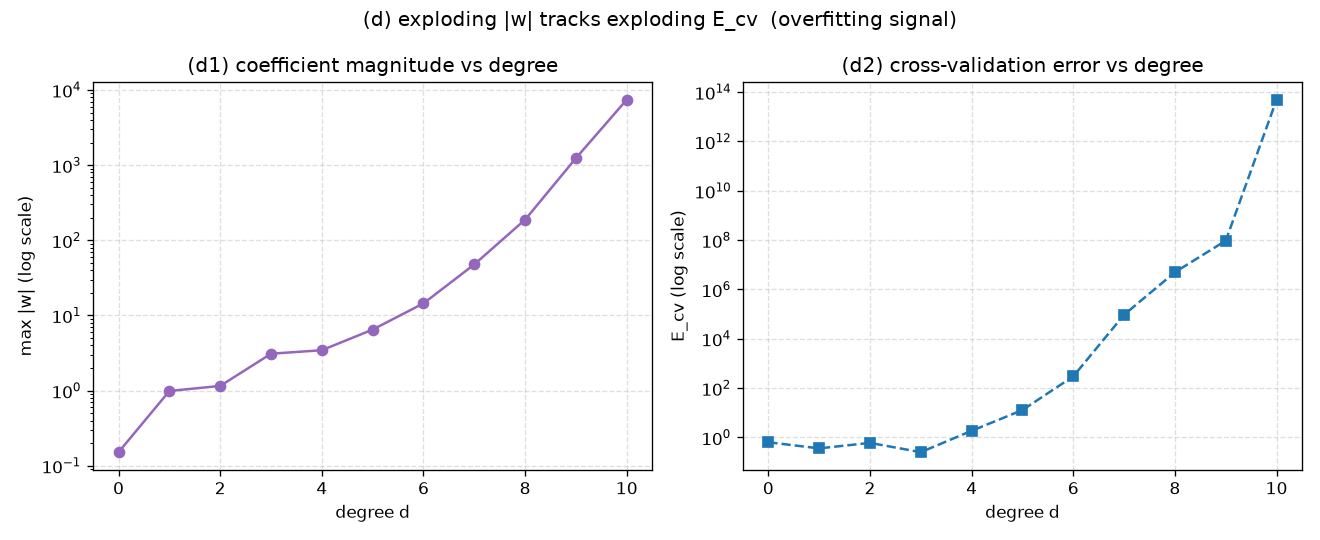
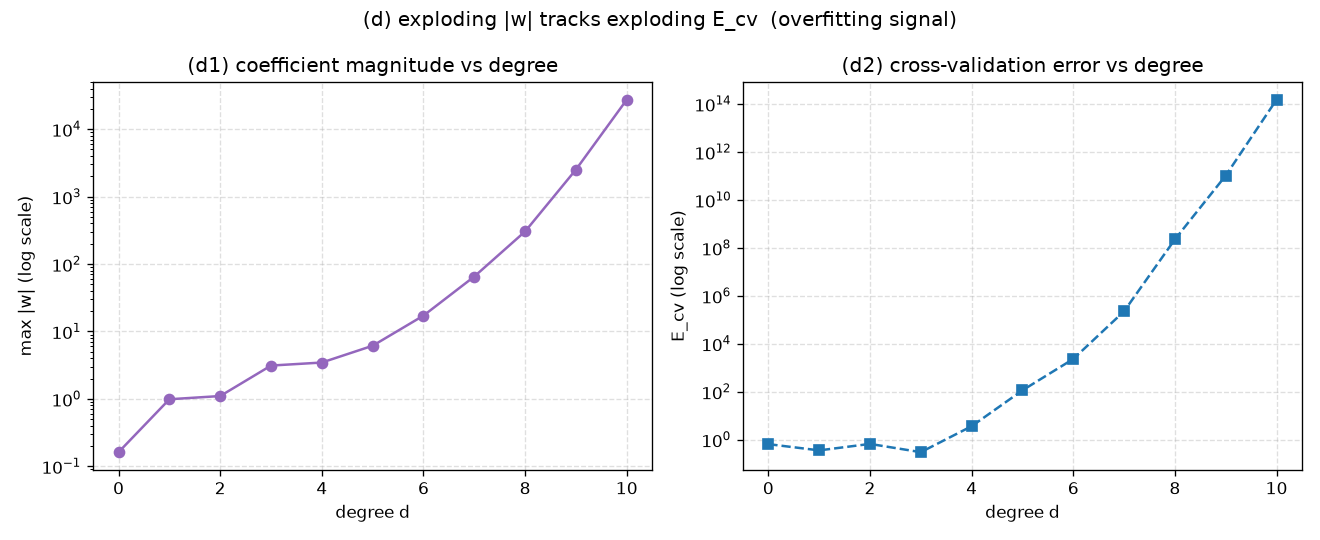
งานที่ 4 Bayes

diff --git a/Fourth_Work/bayes_decision.py b/Fourth_Work/bayes_decision.py
@@ -1,0 +1,120 @@
+# -*- coding: utf-8 -*-
+"""
+Assignment 4: Bayes Decision Theory (1-D, 2 คลาส: '+' และ '-')
+
+หลักการ (ดู g(x) ด้านล่าง):
+- sigma_plus == sigma_minus  -> เส้นแบ่ง (decision boundary) เป็นเส้นตรง = LDA  (ข้อ 1, 4)
+- sigma_plus != sigma_minus  -> เส้นแบ่งเป็นสมการกำลังสอง = QDA        (ข้อ 2, 3)
+เปลี่ยนโหมด LDA/QDA ได้แค่แก้ SIGMA_PLUS / SIGMA_MINUS ด้านล่างให้เท่ากัน/ไม่เท่ากัน
+"""
+import sys
+import numpy as np
+import matplotlib.pyplot as plt
+
+sys.stdout.reconfigure(encoding="utf-8")
+
+# ===================== ตัวแปรที่ปรับได้ (แก้ตรงนี้ที่เดียว) =====================
+MU_PLUS      = 3.0    # mean ของคลาส +
+MU_MINUS     = -1.0   # mean ของคลาส -
+SIGMA_PLUS   = 1.0    # sd ของคลาส +   (= SIGMA_MINUS -> เคส LDA, != -> เคส QDA)
+SIGMA_MINUS  = 1.5    # sd ของคลาส -
+PI_PLUS      = 0.5    # prior คลาส +  (PI_MINUS = 1 - PI_PLUS)
+N_SAMPLES    = 500     # จำนวนตัวอย่างที่สุ่ม (โหมด b: ประมาณค่าพารามิเตอร์)
+SEED         = 42
+X_MIN, X_MAX = -10.0, 10.0
+# ================================================================================
+
+
+def gaussian_pdf(x, mu, sigma):
+    """likelihood: N(x; mu, sigma^2)"""
+    return np.exp(-((x - mu) ** 2) / (2 * sigma ** 2)) / (sigma * np.sqrt(2 * np.pi))
+
+
+def posterior(x, mu_p, sigma_p, pi_p, mu_m, sigma_m, pi_m):
+    """Bayes rule: posterior = prior * likelihood / sum"""
+    like_p = gaussian_pdf(x, mu_p, sigma_p) * pi_p
+    like_m = gaussian_pdf(x, mu_m, sigma_m) * pi_m
+    total = like_p + like_m
+    return like_p / total, like_m / total
+
+
+def decision_boundary(mu_p, sigma_p, pi_p, mu_m, sigma_m, pi_m):
+    """
+    g(x) = ln(pi_p/pi_m) + ln(sigma_m/sigma_p)
+           - (x-mu_p)^2/(2*sigma_p^2) + (x-mu_m)^2/(2*sigma_m^2)
+    เขียนใหม่เป็น A*x^2 + B*x + C = 0 แล้วแก้สมการ (A=0 -> LDA, A!=0 -> QDA)
+    """
+    A = 1 / (2 * sigma_m ** 2) - 1 / (2 * sigma_p ** 2)
+    B = mu_p / sigma_p ** 2 - mu_m / sigma_m ** 2
+    C = (np.log(pi_p / pi_m) + np.log(sigma_m / sigma_p)
+         - mu_p ** 2 / (2 * sigma_p ** 2) + mu_m ** 2 / (2 * sigma_m ** 2))
+
+    if abs(A) < 1e-12:                       # เคส LDA: เส้นตรง B*x + C = 0
+        return [-C / B]
+    roots = np.roots([A, B, C])              # เคส QDA: อาจได้ 2 ราก
+    return sorted(r.real for r in roots if abs(r.imag) < 1e-9)
+
+
+def estimate_gaussian(samples):
+    """ประมาณ mean, sd จากตัวอย่างที่สุ่มมา"""
+    return samples.mean(), samples.std(ddof=1)
+
+
+def plot_case(mu_p, sigma_p, pi_p, mu_m, sigma_m, pi_m, boundaries, title, fname):
+    x = np.linspace(X_MIN, X_MAX, 1000)
+    like_p = gaussian_pdf(x, mu_p, sigma_p)
+    like_m = gaussian_pdf(x, mu_m, sigma_m)
+    post_p, post_m = posterior(x, mu_p, sigma_p, pi_p, mu_m, sigma_m, 1 - pi_p)
+
+    fig, (ax1, ax2) = plt.subplots(1, 2, figsize=(11, 4))
+    fig.suptitle(title)
+
+    ax1.plot(x, like_p, label="likelihood +")
+    ax1.plot(x, like_m, label="likelihood -")
+    ax1.set_title("Likelihood")
+    ax1.legend()
+
+    ax2.plot(x, post_p, label="posterior +")
+    ax2.plot(x, post_m, label="posterior -")
+    ax2.set_title("Posterior")
+    ax2.legend()
+
+    for ax in (ax1, ax2):
+        for b in boundaries:
+            ax.axvline(b, color="k", linestyle="--", linewidth=1)
+
+    fig.tight_layout()
+    fig.savefig(fname, dpi=120)
+    plt.close(fig)
+
+
+def run(mode):
+    pi_m = 1 - PI_PLUS
+
+    if mode == "fixed":
+        mu_p, sigma_p, mu_m, sigma_m = MU_PLUS, SIGMA_PLUS, MU_MINUS, SIGMA_MINUS
+    else:  # mode == "sampled": สุ่มตัวอย่างแล้วประมาณค่าพารามิเตอร์กลับมา
+        rng = np.random.default_rng(SEED)
+        samples_p = rng.normal(MU_PLUS, SIGMA_PLUS, N_SAMPLES)
+        samples_m = rng.normal(MU_MINUS, SIGMA_MINUS, N_SAMPLES)
+        mu_p, sigma_p = estimate_gaussian(samples_p)
+        mu_m, sigma_m = estimate_gaussian(samples_m)
+
+    kind = "LDA (linear)" if abs(sigma_p - sigma_m) < 1e-9 else "QDA (quadratic)"
+    boundaries = decision_boundary(mu_p, sigma_p, PI_PLUS, mu_m, sigma_m, pi_m)
+
+    print(f"[{mode}] {kind}: mu_plus={mu_p:.3f}, sigma_plus={sigma_p:.3f}, "
+          f"mu_minus={mu_m:.3f}, sigma_minus={sigma_m:.3f} "
+          f"-> decision boundary x* = {boundaries}")
+
+    plot_case(mu_p, sigma_p, PI_PLUS, mu_m, sigma_m, pi_m, boundaries,
+              f"{kind} - {mode} params", f"{mode}.png")
+
+
+def main():
+    run("fixed")
+    run("sampled")
+
+
+if __name__ == "__main__":
+    main()
